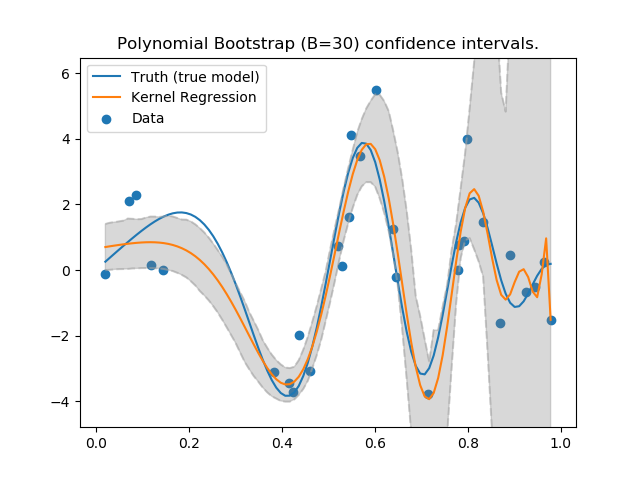
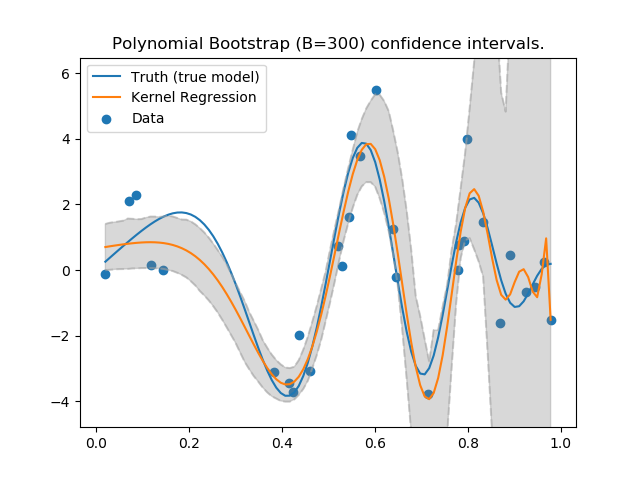
Update plots.

Changed region(s): [[0.1562, 0.0625, 0.8438, 0.125]]

diff --git a/HW3/HW3_code_solutions/kernel_regression.py b/HW3/HW3_code_solutions/kernel_regression.py
@@ -618,7 +618,7 @@ def A3(n=30, foldSize=30, doPoly=True, doRBF=True, doA3e=False):
         degrees = np.arange(30, 60, 1)        
         samplesPoly, bestPoly = A3a("poly", x, y, foldSize, lambdas, degrees)
         A3b("poly", x, y, bestPoly, title="Polynomial Kernel")
-        A3c("poly", x, y, bestPoly, title="Polynomial Bootstrap (B=30) confidence intervals.")
+        A3c("poly", x, y, bestPoly, title="Polynomial Bootstrap (B=300) confidence intervals.")
             
     if doRBF:
         lambdas = np.linspace(0.0001, 0.1, 50)
@@ -626,7 +626,7 @@ def A3(n=30, foldSize=30, doPoly=True, doRBF=True, doA3e=False):
         samplesRdf, bestRdf = A3a("rbf", x, y, foldSize, lambdas, gammas,
                                   xlabel="gamma", title="RBF Kernel")
         A3b("rbf", x, y, bestRdf, title="RBF Kernel")
-        A3c("rbf", x, y, bestRdf, title="RBF Bootstrap (B=30) confidence intervals.")
+        A3c("rbf", x, y, bestRdf, title="RBF Bootstrap (B=300) confidence intervals.")
 
     if doA3e:
         A3e(bestPoly, bestRdf)
